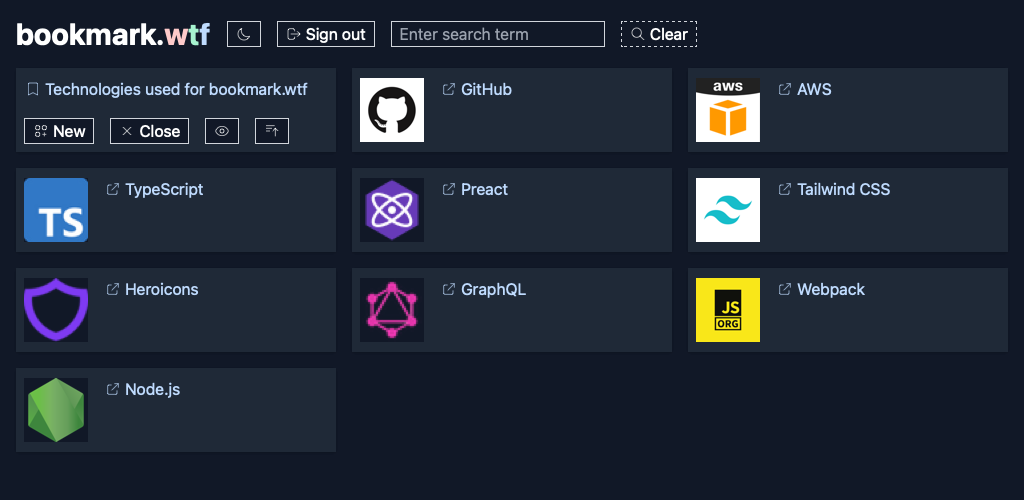
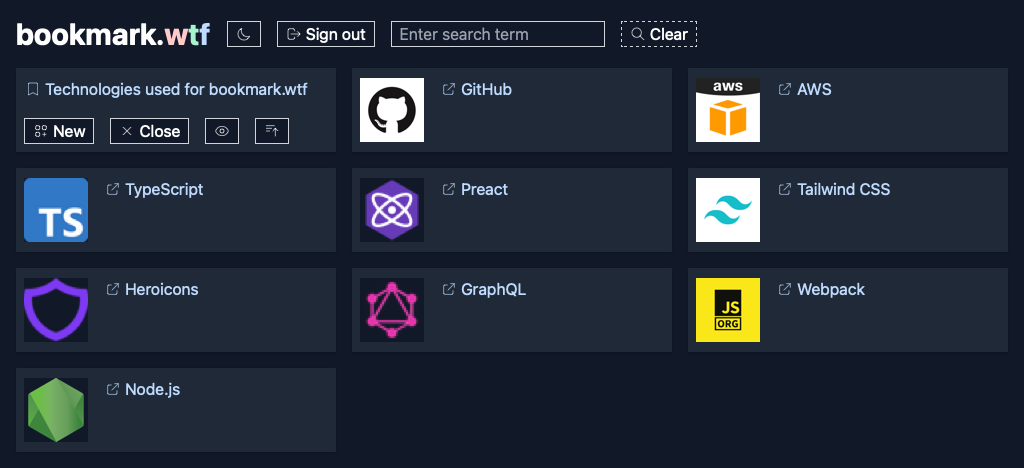
Improve integration tests and optimize screenshot size

diff --git a/src/itests/app.itest.ts b/src/itests/app.itest.ts
@@ -26,19 +26,15 @@ describe('App', () => {
   });
 
   test('take screenshot in light mode', async () => {
-    await app.page.evaluate(() => {
-      localStorage.setItem('colorSchemeSelection', 'light');
-      localStorage.setItem('sortOrder', 'timeAsc');
-    });
-
-    await app.page.setViewportSize({width: 1024, height: 500});
+    await app.setColorScheme('light');
+    await app.setSortOrder('timeAsc');
+    await app.setOptimalViewportSize();
 
     await app.page.goto(app.origin + '/9803bde974539a8992c0515b28db439b', {
       waitUntil: 'networkidle',
     });
 
-    // Blur search field
-    await app.page.click('body');
+    await app.blurAllControls();
 
     await app.page.screenshot({
       path: 'screenshot-light-mode.png',
@@ -47,19 +43,15 @@ describe('App', () => {
   });
 
   test('take screenshot in dark mode', async () => {
-    await app.page.evaluate(() => {
-      localStorage.setItem('colorSchemeSelection', 'dark');
-      localStorage.setItem('sortOrder', 'timeAsc');
-    });
-
-    await app.page.setViewportSize({width: 1024, height: 500});
+    await app.setColorScheme('dark');
+    await app.setSortOrder('timeAsc');
+    await app.setOptimalViewportSize();
 
     await app.page.goto(app.origin + '/9803bde974539a8992c0515b28db439b', {
       waitUntil: 'networkidle',
     });
 
-    // Blur search field
-    await app.page.click('body');
+    await app.blurAllControls();
 
     await app.page.screenshot({
       path: 'screenshot-dark-mode.png',

diff --git a/src/itests/app.ts b/src/itests/app.ts
@@ -29,6 +29,29 @@ export class App {
     this.#secret = secret;
   }
 
+  async setColorScheme(colorScheme: 'dark' | 'light'): Promise<void> {
+    await this.page.evaluate(
+      (_colorScheme) =>
+        localStorage.setItem('colorSchemeSelection', _colorScheme),
+      colorScheme
+    );
+  }
+
+  async setSortOrder(sortOrder: 'timeAsc'): Promise<void> {
+    await this.page.evaluate(
+      (_sortOrder) => localStorage.setItem('sortOrder', _sortOrder),
+      sortOrder
+    );
+  }
+
+  async setOptimalViewportSize(): Promise<void> {
+    await this.page.setViewportSize({width: 1024, height: 468});
+  }
+
+  async blurAllControls(): Promise<void> {
+    await this.page.click('body');
+  }
+
   async signIn(): Promise<void> {
     await this.page.click('button:has-text("Sign in")');
     await this.page.fill('#login_field', this.#login);
